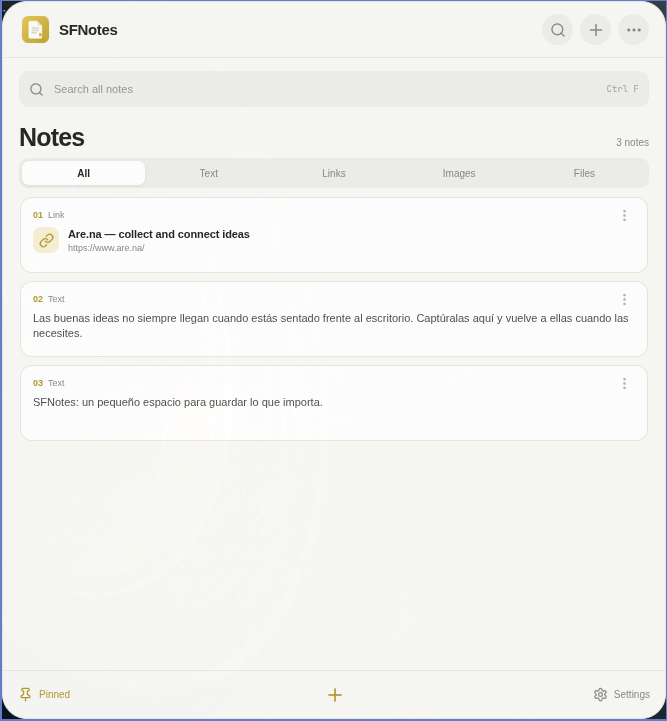
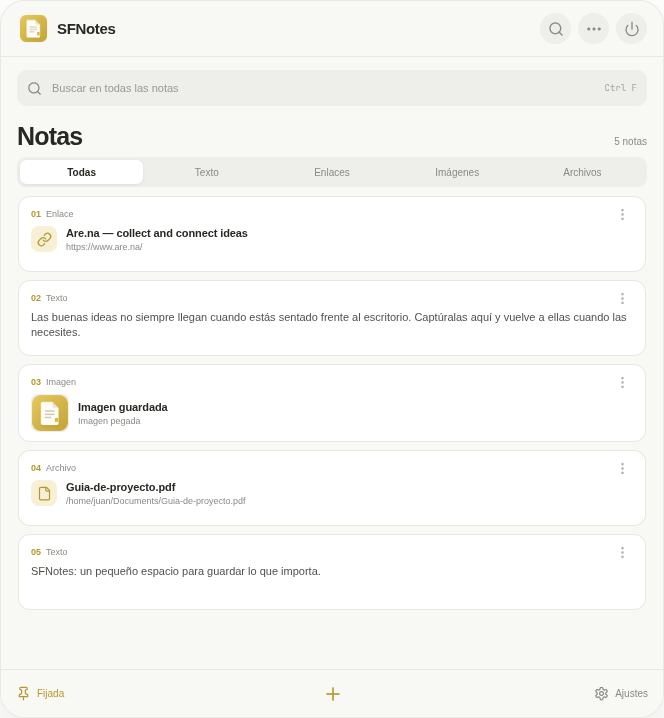
feat: showcase SFNotes screenshots on website

diff --git a/docs/styles.css b/docs/styles.css
@@ -8,8 +8,9 @@ body{margin:0;min-width:320px;background:#f7f5ef}a{color:inherit;text-decoration
 .trust-strip{min-height:83px;display:flex;align-items:center;justify-content:center;gap:40px;border-top:1px solid var(--line);border-bottom:1px solid var(--line);background:#f2f0e9;color:#686a62;font-size:12px;font-weight:550}.trust-strip>div{display:flex;align-items:center;gap:10px}.trust-strip>i{width:1px;height:22px;background:#dedbd1}.strip-icon{color:#a28a42;font-size:17px;font-weight:700}
 .features{padding-top:113px;padding-bottom:120px}.section-heading h2,.download-heading h2{font-size:clamp(37px,4.2vw,52px);letter-spacing:-2.5px;line-height:1.08}.section-heading>p:last-child,.download-heading>p:last-child{max-width:480px;margin:15px 0 0;color:var(--muted);font-size:14px;line-height:1.7}.feature-grid{display:grid;grid-template-columns:1.2fr 1fr 1fr;gap:14px;margin-top:38px}.feature-card{min-height:237px;padding:24px 23px;border:1px solid var(--line);border-radius:14px;background:var(--paper)}.feature-wide{background:#f1eee4}.feature-icon{width:38px;height:38px;display:grid;place-items:center;border-radius:11px;font-size:19px;font-weight:650}.icon-yellow{background:#f5edcf;color:#ad9133}.icon-blue{background:#e8edf6;color:#6987bb}.icon-green{background:#e8eee5;color:#6c876d}.feature-card h3{margin:20px 0 8px;font-size:15px;letter-spacing:-.3px}.feature-card p{margin:0;color:#777970;font-size:12px;line-height:1.7}.type-chips{display:flex;gap:6px;flex-wrap:wrap;margin-top:17px}.type-chips span{padding:6px 9px;border:1px solid #e0dccf;border-radius:7px;color:#68695f;font-size:10px}
 .how-section{padding:100px 0;background:#eeece4}.how-layout{display:grid;grid-template-columns:1fr 1fr;gap:80px;align-items:center}.how-layout .section-heading>p:last-child{max-width:390px}.steps{display:grid;gap:0;margin:0;padding:0;list-style:none}.steps li{display:grid;grid-template-columns:44px 1fr;gap:13px;padding:19px 0;border-bottom:1px solid #dcd9cf}.steps li:first-child{padding-top:0}.steps li:last-child{border:0;padding-bottom:0}.steps li>span{color:#ac9342;font-size:11px;font-weight:750;letter-spacing:.4px}.steps h3{margin:0 0 6px;font-size:14px}.steps p{max-width:360px;margin:0;color:#76786f;font-size:12px;line-height:1.65}
+.showcase-section{padding-top:112px;padding-bottom:112px}.showcase-grid{display:grid;grid-template-columns:repeat(3,1fr);gap:16px;margin-top:36px}.showcase-card{overflow:hidden;border:1px solid var(--line);border-radius:14px;background:var(--paper)}.showcase-card figure{margin:0;padding:12px 12px 0;background:#eeece4}.showcase-card figure img{display:block;width:100%;height:auto;border-radius:9px 9px 0 0;box-shadow:0 5px 20px #25251c12}.showcase-caption{padding:16px 18px 19px}.showcase-caption h3{margin:0 0 7px;font-size:14px;letter-spacing:-.2px}.showcase-caption p{margin:0;color:var(--muted);font-size:11px;line-height:1.65}
 .download-section{padding-top:115px;padding-bottom:105px}.download-heading{text-align:center}.download-heading .eyebrow{margin-bottom:15px}.download-heading>p:last-child{margin-right:auto;margin-left:auto}.download-grid{display:grid;grid-template-columns:repeat(3,1fr);gap:14px;margin-top:35px}.download-card{padding:23px;border:1px solid var(--line);border-radius:13px;background:var(--paper);text-align:center;transition:border-color .2s,transform .2s}.download-card:hover{transform:translateY(-3px);border-color:#d7ca9b}.download-card.suggested{border-color:#bda957;box-shadow:0 8px 28px #ab944222}.platform-icon{width:39px;height:39px;display:grid;place-items:center;margin:0 auto 12px;border-radius:11px;background:#f0eee7;color:#55584e;font-size:21px;font-weight:650}.windows-icon{color:#5d83b9}.apple-icon{font-size:18px}.linux-icon{color:#76906a}.download-card h3{margin:0;font-size:15px}.download-card>p{margin:6px 0 18px;color:#83847c;font-size:11px}.platform-download{display:flex;align-items:center;justify-content:center;gap:8px;min-height:39px;border-radius:8px;background:#292b25;color:white;font-size:11px;font-weight:650;transition:transform .18s,box-shadow .18s}.platform-download span{color:#e4ca68;font-size:16px}.other-downloads{margin:23px 0 0;text-align:center;color:#777970;font-size:12px}.other-downloads a{color:#34362f;font-weight:650;text-decoration:underline;text-decoration-color:#cbbb7b;text-underline-offset:3px}.release-note{margin:11px 0 0;text-align:center;color:#92938b;font-size:10px}.release-note span{font-weight:650;color:#6c6e66}
 .site-footer{min-height:100px;display:flex;align-items:center;justify-content:space-between;gap:20px;border-top:1px solid var(--line)}.footer-brand{font-size:14px}.footer-brand img{width:28px;height:28px}.site-footer>p{color:#898a82;font-size:11px}.site-footer>div{display:flex;align-items:center;gap:19px;color:#686a62;font-size:11px}.site-footer>div span{color:#93948c}
-@media(max-width:850px){.section-wrap,.site-header,.site-footer{width:min(100% - 40px,680px)}.hero{min-height:0;grid-template-columns:1fr;gap:15px;padding-top:75px;padding-bottom:62px}.hero-copy{padding:0}.hero h1{font-size:clamp(48px,10vw,68px)}.hero-visual{width:min(100%,620px);margin:0 auto;padding:40px 12px 34px}.tag-top{right:0}.features{padding-top:83px;padding-bottom:86px}.feature-grid{grid-template-columns:1fr 1fr}.feature-wide{grid-column:span 2}.how-section{padding:80px 0}.how-layout{grid-template-columns:1fr;gap:40px}.download-section{padding-top:86px;padding-bottom:80px}}
-@media(max-width:560px){.section-wrap,.site-header,.site-footer{width:calc(100% - 36px)}.site-header{height:68px}.brand{font-size:15px}.brand img{width:30px;height:30px}.site-header nav{gap:13px;font-size:11px}.site-header nav a:first-child,.site-header nav a:nth-child(2){display:none}.site-header nav .nav-download{padding:9px 12px}.language-select{padding:7px 6px;font-size:10px}.hero{padding-top:58px}.eyebrow{font-size:9px;letter-spacing:1.15px}.hero h1{font-size:42px;letter-spacing:-2.5px}.hero-description{font-size:14px}.hero-actions{align-items:stretch;flex-direction:column}.button{justify-content:flex-start}.button-secondary{justify-content:center}.hero-note{line-height:1.6}.hero-visual{padding:34px 5px 33px}.app-window{padding:5px;border-radius:11px}.floating-tag{padding:9px 10px;font-size:10px}.tag-top{right:-3px}.tag-bottom{left:-3px}.trust-strip{min-height:0;flex-direction:column;align-items:flex-start;gap:13px;padding:20px 22px;font-size:11px}.trust-strip>i{display:none}.strip-icon{width:17px;text-align:center}.feature-grid{grid-template-columns:1fr;gap:10px;margin-top:27px}.feature-wide{grid-column:auto}.feature-card{min-height:0;padding:20px}.feature-card h3{margin-top:14px}.features{padding-top:70px;padding-bottom:72px}.section-heading h2,.download-heading h2{font-size:39px;letter-spacing:-2px}.how-section{padding:70px 0}.how-layout{gap:32px}.download-section{padding-top:72px;padding-bottom:65px}.download-grid{grid-template-columns:1fr;gap:10px;margin-top:26px}.download-card{display:grid;grid-template-columns:42px 1fr auto;align-items:center;gap:0 11px;padding:15px;text-align:left}.platform-icon{grid-row:span 2;width:38px;height:38px;margin:0}.download-card h3{align-self:end}.download-card>p{align-self:start;margin:3px 0 0}.platform-download{grid-column:3;grid-row:1 / span 2;min-width:115px;padding:0 9px;font-size:10px}.other-downloads{line-height:1.7}.site-footer{flex-wrap:wrap;justify-content:flex-start;padding:20px 0}.site-footer>p{order:3;width:100%;margin:0}.site-footer>div{margin-left:auto;gap:12px;font-size:10px}}
+@media(max-width:850px){.section-wrap,.site-header,.site-footer{width:min(100% - 40px,680px)}.hero{min-height:0;grid-template-columns:1fr;gap:15px;padding-top:75px;padding-bottom:62px}.hero-copy{padding:0}.hero h1{font-size:clamp(48px,10vw,68px)}.hero-visual{width:min(100%,620px);margin:0 auto;padding:40px 12px 34px}.tag-top{right:0}.features{padding-top:83px;padding-bottom:86px}.feature-grid{grid-template-columns:1fr 1fr}.feature-wide{grid-column:span 2}.how-section{padding:80px 0}.how-layout{grid-template-columns:1fr;gap:40px}.showcase-section{padding-top:82px;padding-bottom:82px}.showcase-grid{grid-template-columns:1fr 1fr}.download-section{padding-top:86px;padding-bottom:80px}}
+@media(max-width:560px){.section-wrap,.site-header,.site-footer{width:calc(100% - 36px)}.site-header{height:68px}.brand{font-size:15px}.brand img{width:30px;height:30px}.site-header nav{gap:13px;font-size:11px}.site-header nav a:first-child,.site-header nav a:nth-child(2),.site-header nav a:nth-child(3){display:none}.site-header nav .nav-download{padding:9px 12px}.language-select{padding:7px 6px;font-size:10px}.hero{padding-top:58px}.eyebrow{font-size:9px;letter-spacing:1.15px}.hero h1{font-size:42px;letter-spacing:-2.5px}.hero-description{font-size:14px}.hero-actions{align-items:stretch;flex-direction:column}.button{justify-content:flex-start}.button-secondary{justify-content:center}.hero-note{line-height:1.6}.hero-visual{padding:34px 5px 33px}.app-window{padding:5px;border-radius:11px}.floating-tag{padding:9px 10px;font-size:10px}.tag-top{right:-3px}.tag-bottom{left:-3px}.trust-strip{min-height:0;flex-direction:column;align-items:flex-start;gap:13px;padding:20px 22px;font-size:11px}.trust-strip>i{display:none}.strip-icon{width:17px;text-align:center}.feature-grid{grid-template-columns:1fr;gap:10px;margin-top:27px}.feature-wide{grid-column:auto}.feature-card{min-height:0;padding:20px}.feature-card h3{margin-top:14px}.features{padding-top:70px;padding-bottom:72px}.section-heading h2,.download-heading h2{font-size:39px;letter-spacing:-2px}.how-section{padding:70px 0}.how-layout{gap:32px}.showcase-section{padding-top:68px;padding-bottom:68px}.showcase-grid{grid-template-columns:1fr;gap:12px;margin-top:25px}.showcase-caption{padding:14px 16px 17px}.download-section{padding-top:72px;padding-bottom:65px}.download-grid{grid-template-columns:1fr;gap:10px;margin-top:26px}.download-card{display:grid;grid-template-columns:42px 1fr auto;align-items:center;gap:0 11px;padding:15px;text-align:left}.platform-icon{grid-row:span 2;width:38px;height:38px;margin:0}.download-card h3{align-self:end}.download-card>p{align-self:start;margin:3px 0 0}.platform-download{grid-column:3;grid-row:1 / span 2;min-width:115px;padding:0 9px;font-size:10px}.other-downloads{line-height:1.7}.site-footer{flex-wrap:wrap;justify-content:flex-start;padding:20px 0}.site-footer>p{order:3;width:100%;margin:0}.site-footer>div{margin-left:auto;gap:12px;font-size:10px}}
 @media(prefers-reduced-motion:reduce){*,*::before,*::after{scroll-behavior:auto!important;transition:none!important}}

diff --git a/docs/site.js b/docs/site.js
@@ -50,6 +50,64 @@ const translations = {
   }
 };
 
+const showcaseTranslations = {
+  es: {
+    navScreenshots: 'Capturas', showcaseEyebrow: 'MIRA CÓMO FUNCIONA', showcaseTitle: 'Todo lo que necesitas,<br />a simple vista.', showcaseDescription: 'Explora algunas pantallas de SFNotes y descubre cómo se adapta a tu forma de guardar y encontrar cosas.',
+    galleryFilterTitle: 'Encuentra cada cosa', galleryFilterDescription: 'Filtra tus notas por texto, enlaces, imágenes o archivos para llegar rápido a lo que buscas.', galleryFilterAlt: 'Notas filtradas para mostrar solo enlaces',
+    galleryActionsTitle: 'Acciones al momento', galleryActionsDescription: 'Copia, edita, corta o elimina una nota desde su menú.', galleryActionsAlt: 'Menú de acciones de una nota',
+    galleryThemesTitle: 'Elige tu aspecto', galleryThemesDescription: 'Prueba ocho temas y cambia el color de resaltado para darle tu estilo.', galleryThemesAlt: 'Ajustes con temas y colores de resaltado',
+    galleryControlsTitle: 'Personaliza los controles', galleryControlsDescription: 'Muestra u oculta búsqueda, filtros, contador y botones. Decide dónde colocar los controles.', galleryControlsAlt: 'Ajustes para mostrar u ocultar funciones y cambiar su posición',
+    galleryDarkTitle: 'También en oscuro', galleryDarkDescription: 'El tema Medianoche ofrece una apariencia oscura para trabajar con poca luz.', galleryDarkAlt: 'SFNotes con el tema oscuro Medianoche',
+    galleryEditTitle: 'Edita tus notas', galleryEditDescription: 'Abre una nota para cambiar su contenido y guarda los cambios en este dispositivo.', galleryEditAlt: 'Editor para modificar el contenido de una nota'
+  },
+  en: {
+    navScreenshots: 'Screenshots', showcaseEyebrow: 'SEE HOW IT WORKS', showcaseTitle: 'Everything you need,<br />at a glance.', showcaseDescription: 'Take a look inside SFNotes and see how it fits the way you save and find things.',
+    galleryFilterTitle: 'Find things quickly', galleryFilterDescription: 'Filter notes by text, links, images or files to get to what you need.', galleryFilterAlt: 'Notes filtered to show links only',
+    galleryActionsTitle: 'Quick note actions', galleryActionsDescription: 'Copy, edit, cut or delete a note from its menu.', galleryActionsAlt: 'A note action menu',
+    galleryThemesTitle: 'Choose your look', galleryThemesDescription: 'Try eight themes and change the highlight color to make it yours.', galleryThemesAlt: 'Settings with themes and highlight colors',
+    galleryControlsTitle: 'Customize the controls', galleryControlsDescription: 'Show or hide search, filters, the counter and buttons. Choose where controls appear.', galleryControlsAlt: 'Settings to show or hide features and change their positions',
+    galleryDarkTitle: 'A dark option too', galleryDarkDescription: 'The Midnight theme offers a darker look for working in low light.', galleryDarkAlt: 'SFNotes using the Midnight dark theme',
+    galleryEditTitle: 'Edit your notes', galleryEditDescription: 'Open a note to change its content and save your changes on this device.', galleryEditAlt: 'Editor for changing a note’s content'
+  },
+  fr: {
+    navScreenshots: 'Captures', showcaseEyebrow: 'DÉCOUVREZ SON FONCTIONNEMENT', showcaseTitle: 'Tout ce qu’il vous faut,<br />en un coup d’œil.', showcaseDescription: 'Découvrez quelques écrans de SFNotes et voyez comment l’application s’adapte à votre façon de conserver et retrouver vos éléments.',
+    galleryFilterTitle: 'Retrouvez vos éléments', galleryFilterDescription: 'Filtrez les notes par texte, liens, images ou fichiers pour trouver rapidement ce que vous cherchez.', galleryFilterAlt: 'Notes filtrées pour afficher uniquement les liens',
+    galleryActionsTitle: 'Des actions rapides', galleryActionsDescription: 'Copiez, modifiez, coupez ou supprimez une note depuis son menu.', galleryActionsAlt: 'Menu des actions d’une note',
+    galleryThemesTitle: 'Choisissez votre apparence', galleryThemesDescription: 'Essayez huit thèmes et changez la couleur de surbrillance selon vos envies.', galleryThemesAlt: 'Réglages des thèmes et des couleurs de surbrillance',
+    galleryControlsTitle: 'Personnalisez les commandes', galleryControlsDescription: 'Affichez ou masquez la recherche, les filtres, le compteur et les boutons. Choisissez leur emplacement.', galleryControlsAlt: 'Réglages pour afficher, masquer ou déplacer des fonctions',
+    galleryDarkTitle: 'Un thème sombre aussi', galleryDarkDescription: 'Le thème Minuit propose une apparence sombre pour travailler avec peu de lumière.', galleryDarkAlt: 'SFNotes avec le thème sombre Minuit',
+    galleryEditTitle: 'Modifiez vos notes', galleryEditDescription: 'Ouvrez une note pour modifier son contenu et enregistrer les changements sur cet appareil.', galleryEditAlt: 'Éditeur du contenu d’une note'
+  },
+  de: {
+    navScreenshots: 'Einblicke', showcaseEyebrow: 'SO FUNKTIONIERT ES', showcaseTitle: 'Alles Wichtige<br />auf einen Blick.', showcaseDescription: 'Sieh dir SFNotes an und entdecke, wie die App dich beim Speichern und Wiederfinden unterstützt.',
+    galleryFilterTitle: 'Alles schnell finden', galleryFilterDescription: 'Filtere Notizen nach Text, Links, Bildern oder Dateien und finde schneller, wonach du suchst.', galleryFilterAlt: 'Notizen, gefiltert auf Links',
+    galleryActionsTitle: 'Schnelle Aktionen', galleryActionsDescription: 'Kopiere, bearbeite, schneide aus oder lösche eine Notiz über ihr Menü.', galleryActionsAlt: 'Menü mit Notizaktionen',
+    galleryThemesTitle: 'Wähle dein Design', galleryThemesDescription: 'Probiere acht Designs aus und passe die Hervorhebungsfarbe an.', galleryThemesAlt: 'Einstellungen für Designs und Hervorhebungsfarben',
+    galleryControlsTitle: 'Steuerelemente anpassen', galleryControlsDescription: 'Blende Suche, Filter, Zähler und Schaltflächen ein oder aus. Lege ihre Position fest.', galleryControlsAlt: 'Einstellungen zum Ein- und Ausblenden und Verschieben von Funktionen',
+    galleryDarkTitle: 'Auch dunkel verfügbar', galleryDarkDescription: 'Das Mitternacht-Design bietet eine dunkle Ansicht für wenig Licht.', galleryDarkAlt: 'SFNotes im dunklen Mitternacht-Design',
+    galleryEditTitle: 'Notizen bearbeiten', galleryEditDescription: 'Öffne eine Notiz, ändere ihren Inhalt und speichere die Änderungen auf diesem Gerät.', galleryEditAlt: 'Editor zum Ändern des Inhalts einer Notiz'
+  },
+  it: {
+    navScreenshots: 'Immagini', showcaseEyebrow: 'SCOPRI COME FUNZIONA', showcaseTitle: 'Tutto quello che serve,<br />a colpo d’occhio.', showcaseDescription: 'Dai un’occhiata a SFNotes e scopri come si adatta al tuo modo di salvare e ritrovare le cose.',
+    galleryFilterTitle: 'Trova tutto rapidamente', galleryFilterDescription: 'Filtra le note per testo, link, immagini o file e raggiungi subito ciò che cerchi.', galleryFilterAlt: 'Note filtrate per mostrare solo i link',
+    galleryActionsTitle: 'Azioni rapide', galleryActionsDescription: 'Copia, modifica, taglia o elimina una nota dal suo menu.', galleryActionsAlt: 'Menu delle azioni di una nota',
+    galleryThemesTitle: 'Scegli il tuo stile', galleryThemesDescription: 'Prova otto temi e cambia il colore di evidenziazione come preferisci.', galleryThemesAlt: 'Impostazioni dei temi e dei colori di evidenziazione',
+    galleryControlsTitle: 'Personalizza i controlli', galleryControlsDescription: 'Mostra o nascondi ricerca, filtri, conteggio e pulsanti. Scegli dove posizionare i controlli.', galleryControlsAlt: 'Impostazioni per mostrare, nascondere o spostare le funzioni',
+    galleryDarkTitle: 'Disponibile anche scuro', galleryDarkDescription: 'Il tema Mezzanotte offre un aspetto scuro per lavorare con poca luce.', galleryDarkAlt: 'SFNotes con il tema scuro Mezzanotte',
+    galleryEditTitle: 'Modifica le note', galleryEditDescription: 'Apri una nota per modificarne il contenuto e salvare i cambiamenti su questo dispositivo.', galleryEditAlt: 'Editor per modificare il contenuto di una nota'
+  },
+  pt: {
+    navScreenshots: 'Imagens', showcaseEyebrow: 'VEJA COMO FUNCIONA', showcaseTitle: 'Tudo o que precisa,<br />num relance.', showcaseDescription: 'Explore alguns ecrãs do SFNotes e veja como se adapta à sua forma de guardar e encontrar coisas.',
+    galleryFilterTitle: 'Encontre tudo rapidamente', galleryFilterDescription: 'Filtre notas por texto, links, imagens ou ficheiros para encontrar rapidamente o que procura.', galleryFilterAlt: 'Notas filtradas para mostrar apenas links',
+    galleryActionsTitle: 'Ações rápidas', galleryActionsDescription: 'Copie, edite, corte ou elimine uma nota através do menu.', galleryActionsAlt: 'Menu de ações de uma nota',
+    galleryThemesTitle: 'Escolha o seu visual', galleryThemesDescription: 'Experimente oito temas e altere a cor de destaque ao seu gosto.', galleryThemesAlt: 'Definições de temas e cores de destaque',
+    galleryControlsTitle: 'Personalize os controlos', galleryControlsDescription: 'Mostre ou oculte a pesquisa, os filtros, o contador e os botões. Escolha onde ficam os controlos.', galleryControlsAlt: 'Definições para mostrar, ocultar ou mover funcionalidades',
+    galleryDarkTitle: 'Também em modo escuro', galleryDarkDescription: 'O tema Meia-noite oferece um visual escuro para trabalhar com pouca luz.', galleryDarkAlt: 'SFNotes com o tema escuro Meia-noite',
+    galleryEditTitle: 'Edite as suas notas', galleryEditDescription: 'Abra uma nota, altere o seu conteúdo e guarde as mudanças neste dispositivo.', galleryEditAlt: 'Editor para alterar o conteúdo de uma nota'
+  }
+};
+for (const language of Object.keys(showcaseTranslations)) Object.assign(translations[language], showcaseTranslations[language]);
+
 const supportedLanguages = Object.keys(translations);
 const languageSelect = document.querySelector('#language-select');
 let activeLanguage = 'es';

diff --git a/docs/index.html b/docs/index.html
@@ -22,6 +22,7 @@
       <nav aria-label="Main navigation" data-i18n-aria="mainNavigation">
         <a href="#funciones" data-i18n="navFeatures">Features</a>
         <a href="#como-funciona" data-i18n="navHow">How it works</a>
+        <a href="#capturas" data-i18n="navScreenshots">Screenshots</a>
         <a class="nav-download" href="#descarga"><span data-i18n="navDownload">Download</span> <span aria-hidden="true">↓</span></a>
       </nav>
       <select id="language-select" class="language-select" aria-label="Language" data-i18n-aria="languageLabel">
@@ -104,6 +105,40 @@
             <li><span>02</span><div><h3 data-i18n="stepTwoTitle">Find it</h3><p data-i18n="stepTwoDescription">Search, filter and organize your notes. Customize SFNotes in Settings.</p></div></li>
             <li><span>03</span><div><h3 data-i18n="stepThreeTitle">Use it again</h3><p data-i18n="stepThreeDescription">Click a note to copy it again. Your data stays on your device.</p></div></li>
           </ol>
+        </div>
+      </section>
+
+      <section class="showcase-section section-wrap" id="capturas">
+        <div class="section-heading">
+          <p class="eyebrow" data-i18n="showcaseEyebrow">MIRA CÓMO FUNCIONA</p>
+          <h2 data-i18n="showcaseTitle">Todo lo que necesitas,<br />a simple vista.</h2>
+          <p data-i18n="showcaseDescription">Explora algunas pantallas de SFNotes y descubre cómo se adapta a tu forma de guardar y encontrar cosas.</p>
+        </div>
+        <div class="showcase-grid">
+          <article class="showcase-card">
+            <figure><img src="images/app-links.png" width="664" height="718" loading="lazy" decoding="async" alt="Notas filtradas para mostrar solo enlaces" data-i18n-alt="galleryFilterAlt" /></figure>
+            <div class="showcase-caption"><h3 data-i18n="galleryFilterTitle">Encuentra cada cosa</h3><p data-i18n="galleryFilterDescription">Filtra tus notas por texto, enlaces, imágenes o archivos para llegar rápido a lo que buscas.</p></div>
+          </article>
+          <article class="showcase-card">
+            <figure><img src="images/app-note-actions.png" width="664" height="718" loading="lazy" decoding="async" alt="Menú de acciones de una nota" data-i18n-alt="galleryActionsAlt" /></figure>
+            <div class="showcase-caption"><h3 data-i18n="galleryActionsTitle">Acciones al momento</h3><p data-i18n="galleryActionsDescription">Copia, edita, corta o elimina una nota desde su menú.</p></div>
+          </article>
+          <article class="showcase-card">
+            <figure><img src="images/app-settings-themes.png" width="664" height="718" loading="lazy" decoding="async" alt="Ajustes con temas y colores de resaltado" data-i18n-alt="galleryThemesAlt" /></figure>
+            <div class="showcase-caption"><h3 data-i18n="galleryThemesTitle">Elige tu aspecto</h3><p data-i18n="galleryThemesDescription">Prueba ocho temas y cambia el color de resaltado para darle tu estilo.</p></div>
+          </article>
+          <article class="showcase-card">
+            <figure><img src="images/app-settings-controls.png" width="664" height="718" loading="lazy" decoding="async" alt="Ajustes para mostrar u ocultar funciones y cambiar su posición" data-i18n-alt="galleryControlsAlt" /></figure>
+            <div class="showcase-caption"><h3 data-i18n="galleryControlsTitle">Personaliza los controles</h3><p data-i18n="galleryControlsDescription">Muestra u oculta búsqueda, filtros, contador y botones. Decide dónde colocar los controles.</p></div>
+          </article>
+          <article class="showcase-card">
+            <figure><img src="images/app-midnight.png" width="664" height="718" loading="lazy" decoding="async" alt="SFNotes con el tema oscuro Medianoche" data-i18n-alt="galleryDarkAlt" /></figure>
+            <div class="showcase-caption"><h3 data-i18n="galleryDarkTitle">También en oscuro</h3><p data-i18n="galleryDarkDescription">El tema Medianoche ofrece una apariencia oscura para trabajar con poca luz.</p></div>
+          </article>
+          <article class="showcase-card">
+            <figure><img src="images/app-edit-note.png" width="664" height="718" loading="lazy" decoding="async" alt="Editor para modificar el texto de una nota" data-i18n-alt="galleryEditAlt" /></figure>
+            <div class="showcase-caption"><h3 data-i18n="galleryEditTitle">Edita tus notas</h3><p data-i18n="galleryEditDescription">Abre una nota de texto para revisarla y guardar los cambios en este dispositivo.</p></div>
+          </article>
         </div>
       </section>
 
